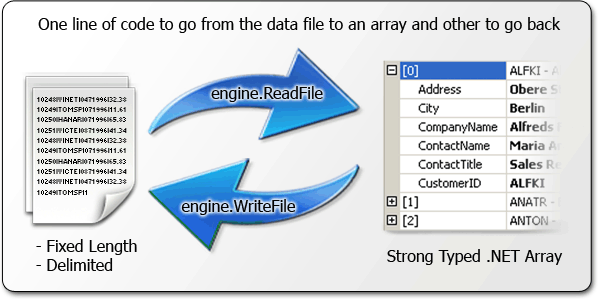
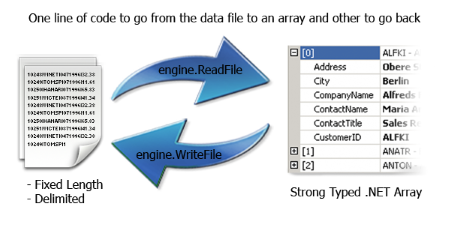
Changin some images to remove old gradients Added some warning in the tips Better download page

diff --git a/_includes/tips.html b/_includes/tips.html
@@ -1,21 +1,37 @@
 
-<h4>FAQ</h4>
+<h4><i class="fa fa-exclamation-triangle" style="color: rgb(243, 169, 34);  opacity: 0.6;"></i> Warnings</h4>
 
-<ul class="collapsible popout collapsible-accordion" data-collapsible="accordion">
+<ul class="collapsible popout collapsible-accordion indent" data-collapsible="accordion">
+  <li>
+    <div class="collapsible-header">DataLink feature is outdated and will be rewritten</div>
+    <div class="collapsible-body"><p>The support to interact with other datasources is from the old 1.1 or 2.0 days. We will be rewritting this feature for the next release using lambda expressions, Task and other advanced features of .Net</p></div>
+  </li>
          <li>
-           <div class="collapsible-header"><i class="fa fa-question-circle"></i>My file has headers, how can I ignore it ?</div>
+           <div class="collapsible-header">Excel Support is only for basic scenarios</div>
+           <div class="collapsible-body"><p>The current implmented Excel support is only for basic scenarios, if you need custom formatting, charts, etc you must go for a custom
+           code, is strongly recommended to direct use the <a href="https://npoi.codeplex.com/">NPOI library</a>
+           </p></div>
+         </li>
+
+       </ul>
+
+<h4><i class="fa fa-question-circle" style="color: rgb(45, 142, 211);  opacity: 0.6;"></i> FAQ</h4>
+
+<ul class="collapsible popout collapsible-accordion indent" data-collapsible="accordion">
+         <li>
+           <div class="collapsible-header">My file has headers, how can I ignore it ?</div>
            <div class="collapsible-body"><p>You must use the <span class="code">[IgnoreFirst]</span> attribute, for footer line you can use also <span class="code">[IgnoreLast]</span></p></div>
          </li>
          <li>
-           <div class="collapsible-header"><i class="fa fa-question-circle"></i>Not all the characters from the original file are read</div>
+           <div class="collapsible-header">Not all the characters from the original file are read</div>
            <div class="collapsible-body"><p>Sure you have a problem with the Encoding of the file and the one that uses the engine, in all the engines of the library you can pass a custom Encoding</p></div>
          </li>
            <li>
-           <div class="collapsible-header"><i class="fa fa-question-circle"></i>How can I skip certain lines when reading a file</div>
+           <div class="collapsible-header">How can I skip certain lines when reading a file</div>
            <div class="collapsible-body"><p>You can capture the <span class="code">BeforeRead</span> Event or use the <span class="code">INotifyRead</span> interface</p></div>
          </li>
          <li>
-           <div class="collapsible-header"><i class="fa fa-question-circle"></i>My DateTime field has a different format</div>
+           <div class="collapsible-header">My DateTime field has a different format</div>
            <div class="collapsible-body"><p>Use this attribute with your format:
              <span class="code">
              [FieldConverter(ConverterKind.Date, "M-d-yyyy" )]
@@ -24,25 +40,25 @@
          </li>
        </ul>
 
- <h4>Performance Tips</h4>
+ <h4><i class="fa fa-rocket" style="color: rgb(54, 111, 54);  opacity: 0.6;"></i> Performance</h4>
 
- <ul class="collapsible popout collapsible-accordion" data-collapsible="accordion">
+ <ul class="collapsible popout collapsible-accordion indent" data-collapsible="accordion">
           <li>
-            <div class="collapsible-header"><i class="fa fa-rocket"></i>Try to use FileHelperAsyncEngine</div>
+            <div class="collapsible-header">Try to use FileHelperAsyncEngine</div>
             <div class="collapsible-body"><p>When reading or writing a large number of record, whenever is posible you must use FileHelperAsyncEngine,
                it will work faster and use a ton less memory</p></div>
           </li>
           <li>
-            <div class="collapsible-header"><i class="fa fa-rocket"></i>Use FieldValueDiscarded for fields that you don't use</div>
+            <div class="collapsible-header">Use FieldValueDiscarded for fields that you don't use</div>
             <div class="collapsible-body"><p>If you record class has a lot of fields and you never use the value of some fields and the library can discard the value for the field apply that attribute</p></div>
           </li>
         </ul>
 
-<h4>Debugging Tips</h4>
+<h4><i class="fa fa-keyboard-o" style="color: rgb(238, 105, 48);  opacity: 0.6;"></i> Debugging</h4>
 
-        <ul class="collapsible popout collapsible-accordion" data-collapsible="accordion">
+        <ul class="collapsible popout collapsible-accordion indent" data-collapsible="accordion">
                  <li>
-                   <div class="collapsible-header"><i class="fa fa-keyboard-o"></i></i>Use all the values of the FileHelper Exceptions</div>
+                   <div class="collapsible-header">Use all the values of the FileHelper Exceptions</div>
                    <div class="collapsible-body"><p>We work hard to provide great context info in all exceptions, you can use it to understand what is wrong.
                      <span class="code"><a href="http://www.filehelpers.net/docs/html/T_FileHelpers_ConvertException.htm">ConvertException</a></span>
                  </li>

diff --git a/download.html b/download.html
@@ -8,13 +8,13 @@ permalink: /download/
 
 <div class="indent">
 
-<p>Search in your package source in Visual Studio for FileHelpers package</p>
+<div class="row">
 
-(TODO: image of package manager)
+<div class="col s12">
 
 <a href="https://www.nuget.org/packages/FileHelpers/">www.nuget.org/packages/FileHelpers</a>
 
-<p>Manual install via Console</p>
+<p><b>Manual install via Console</b></p>
 
 <div class="indent">
 {% highlight PowerShell %}
@@ -22,6 +22,12 @@ Install-Package FileHelpers
 {% endhighlight %}
 </div>
 
+<p><b>or search for "FielHelpers" in the NuGet Package Manager in Visual Studio</b></p>
+
+<img src="{{ site.baseurl }}/images/nuget.png" class="indent" alt="add references" style="" />
+
+</div>
+</div>
 </div>
 
 <h4>Manual Installation via GitHub</h4>
@@ -54,7 +60,7 @@ Install-Package FileHelpers
 <div class="indent">
 
   {% highlight PowerShell %}
-  Install-Package FileHelpers -pre
+  Install-Package FileHelpers -Pre
   {% endhighlight %}
 
 You can also access the dialy builds at TeamCity in CodeBetter

diff --git a/index.html b/index.html
@@ -38,13 +38,11 @@ Access, SqlServer, etc.</p>
 
 <div class="row">
 
-<div class="col l6">
+<div class="col l12">
 
-<img height="300" src="{{ site.baseurl }}/images/use_case1.png" width="598" alt="general read write of filehelpers" />
-</div>
-<div class="col l6">
+<img src="{{ site.baseurl }}/images/use_case1.png"  alt="general read write of filehelpers" class="shadow" style="margin-right:20px; margin-bottom: 20px;" />
 
-<img height="300" src="{{ site.baseurl }}/images/use_case2.png" width="598" alt="General read write to data storage" />
+<img  src="{{ site.baseurl }}/images/use_case2.png" alt="General read write to data storage" class="shadow" style="margin-right:20px; margin-bottom: 20px;"/>
 </div>
 </div>
 

diff --git a/css/style.custom.css b/css/style.custom.css
@@ -204,3 +204,7 @@ ul.changelog > li {
 
     #features h4  { font-size: 18px; color: black; }
     #features .s4 { font-size: 14px; line-height: 1.3; color: #888; padding: 15px; }
+
+.shadow { 
+  box-shadow: 0 2px 5px 0 rgba(0, 0, 0, 0.16), 0 2px 10px 0 rgba(0, 0, 0, 0.12);
+}

diff --git a/contribute.html b/contribute.html
@@ -1,0 +1,5 @@
+---
+layout: default
+title: Contribute
+permalink: /contribute/
+---

diff --git a/README.md b/README.md
@@ -22,6 +22,10 @@ If you want to edit the pages you can:
 
        http://stackoverflow.com/a/28998745/203579
 
+   You must also install wdm for real time regeneration of changed pages
+
+   gem install wdm
+
 
 ### Editor
 
